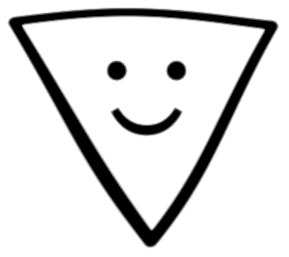
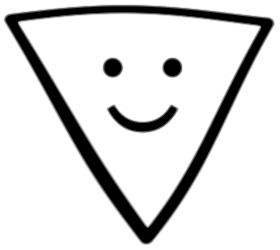
Even image size
Cropped the image size to an even width and height so that it works
better as an @2x graphic.

diff --git a/Experiment/html/end.html b/Experiment/html/end.html
@@ -7,5 +7,5 @@
 </div>
 
 <div id='smile'>
-  <img src='images/smile.png' width='145' alt='Flatlander smile' />
+  <img src='images/smile.png' width='140' height='125' alt='Flatlander smile' />
 </div>
